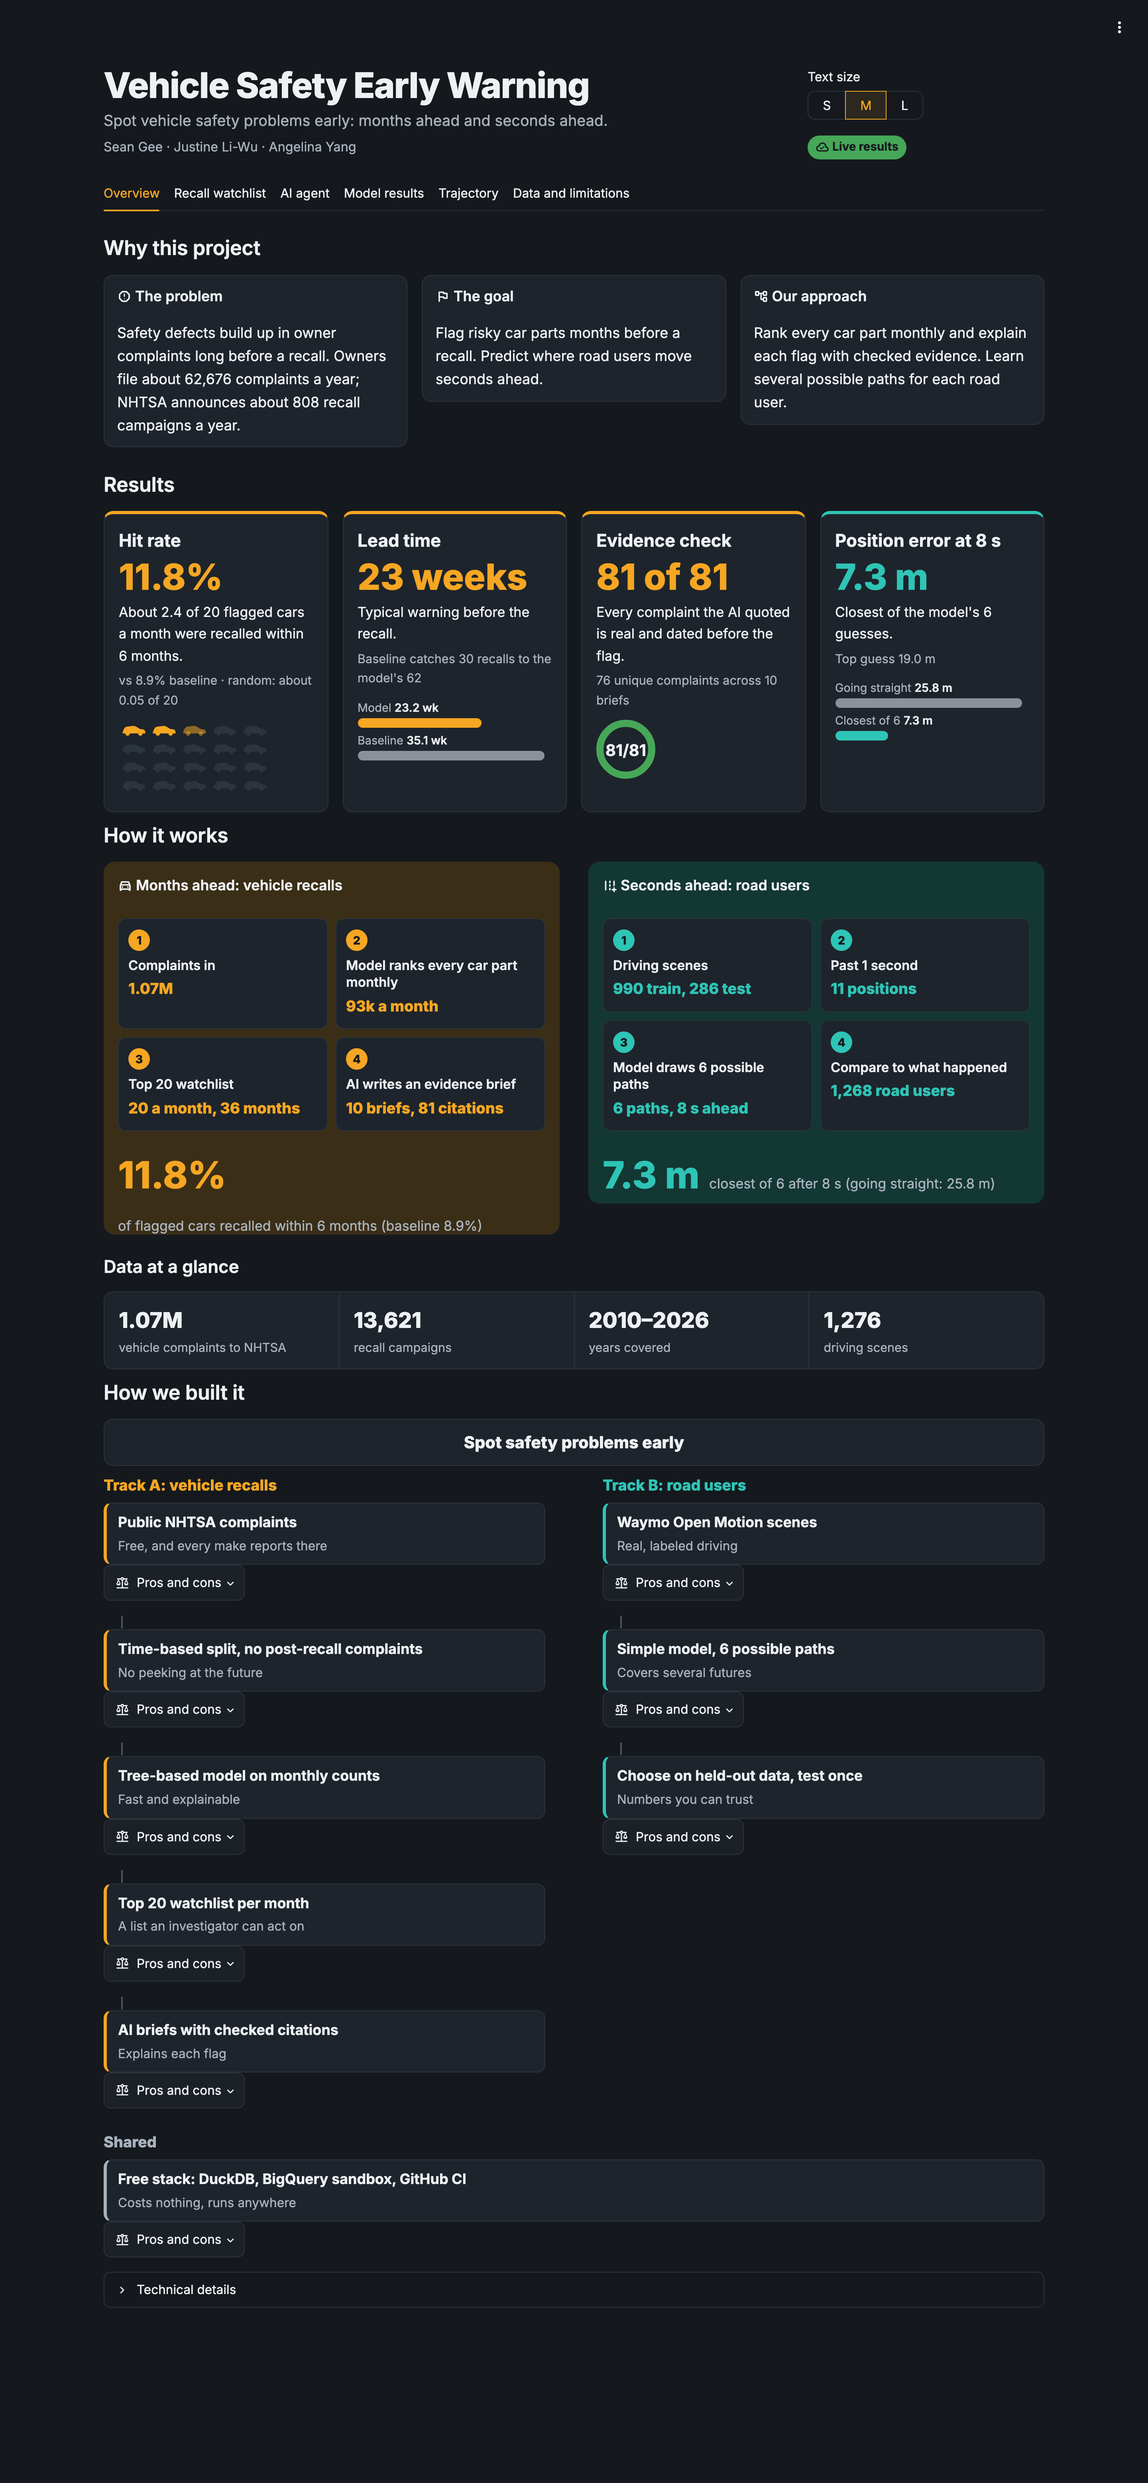
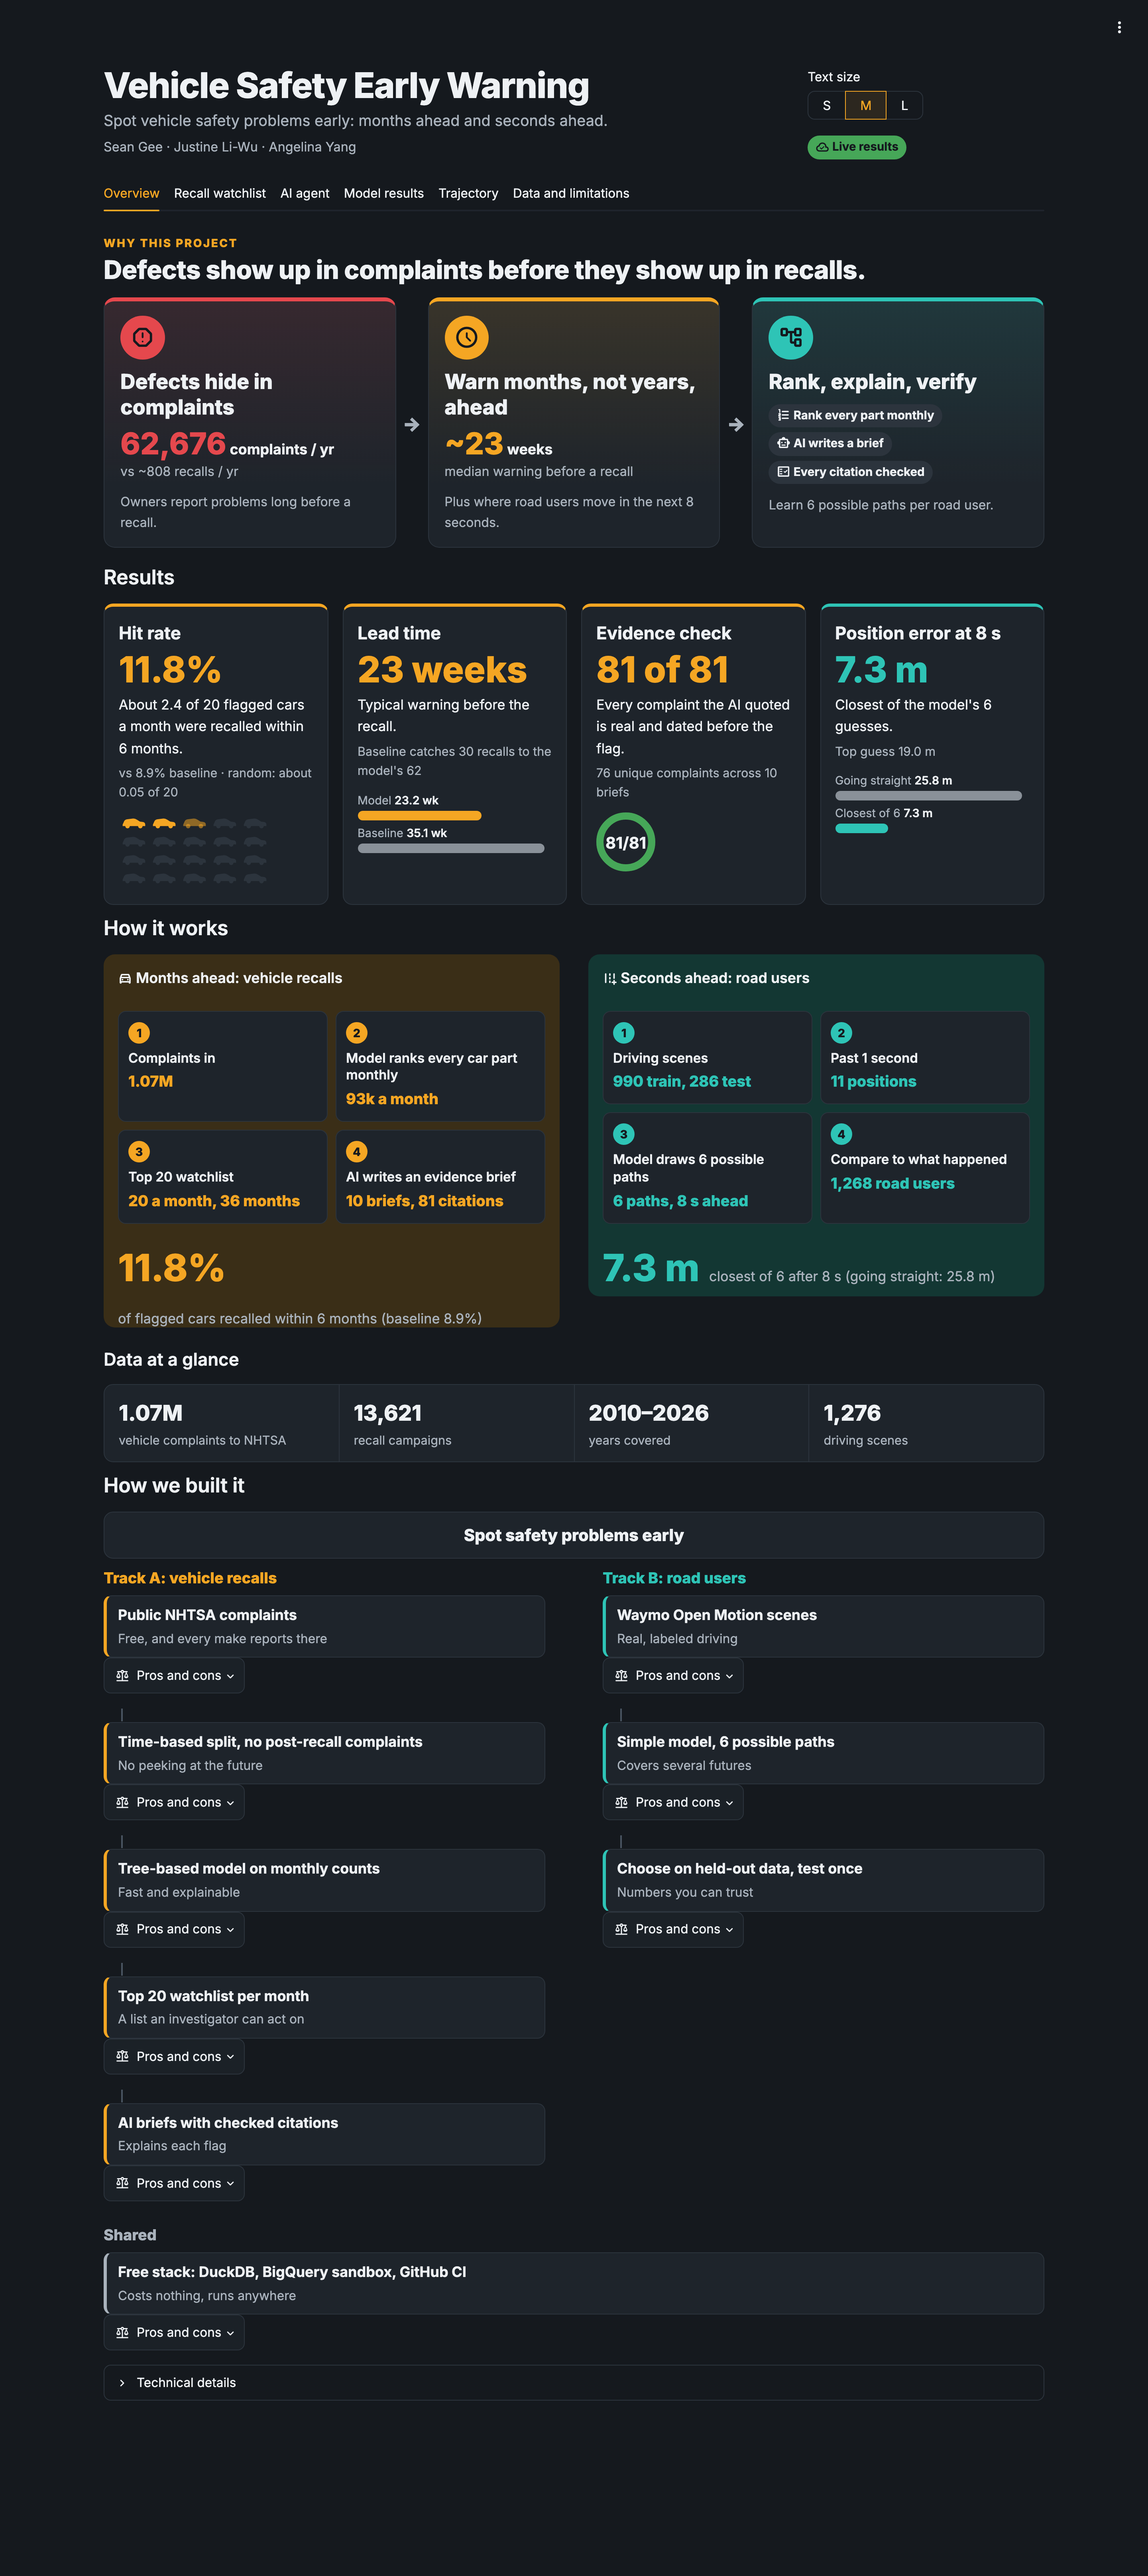
Demo: 'Why this project' as a Problem -> Goal -> Approach story (accent cards, live stats, arrows)

Changed region(s): [[0.0938, 0.0311, 0.9062, 0.9342], [0.6875, 0.0311, 0.7812, 0.0623]]

diff --git a/app/streamlit_app.py b/app/streamlit_app.py
@@ -128,28 +128,48 @@ def open_agent(brief_id: str) -> None:
 # ---------------------------------------------------------------------------------------------
 # Overview
 
+def h_row(data: D.Data):
+    h = data.get("v_headline_metrics")
+    return None if h is None or h.empty else h.iloc[0]
+
+
+def why_story(h, cf: dict, rf: dict) -> None:
+    """Problem -> Goal -> Approach, as three connected cards."""
+    weeks = None if h is None else h["model_median_weeks_warning"]
+    problem_stat = (f'<div class="stat">{num(cf["per_year"])}<span class="u"> complaints / yr</span></div>'
+                    f'<div class="sub">vs ~{num(rf["per_year"])} recalls / yr</div>') if cf and rf else ""
+    goal_stat = (f'<div class="stat">~{num(weeks)}<span class="u"> weeks</span></div>'
+                 '<div class="sub">median warning before a recall</div>') if weeks is not None else ""
+    approach_chips = "".join(ui.chip(t, theme.INK, theme.BORDER, ic) for ic, t in [
+        ("format_list_numbered", "Rank every part monthly"), ("smart_toy", "AI writes a brief"),
+        ("fact_check", "Every citation checked")])
+    cards = [
+        (theme.ALERT, "report", "Defects hide in complaints", problem_stat,
+         "Owners report problems long before a recall."),
+        (theme.TRACK_A, "schedule", "Warn months, not years, ahead", goal_stat,
+         "Plus where road users move in the next 8 seconds."),
+        (theme.TRACK_B, "account_tree", "Rank, explain, verify", f'<div class="chips">{approach_chips}</div>',
+         "Learn 6 possible paths per road user."),
+    ]
+    parts = []
+    for i, (accent, icon_name, headline, visual, line) in enumerate(cards):
+        if i:
+            parts.append('<div class="vse-chev" aria-hidden="true">→</div>')
+        parts.append(
+            f'<div class="vse-why" style="--accent:{accent};--glow:{theme.rgba(accent, 0.12)}">'
+            f'<div class="ic">{ui.icon(icon_name)}</div><div class="h">{escape(headline)}</div>'
+            f'{visual}<div class="ln">{escape(line)}</div></div>')
+    st.markdown('<div class="vse-eyebrow">WHY THIS PROJECT</div>'
+                '<div class="vse-bigtitle">Defects show up in complaints before they show up in recalls.</div>'
+                f'<div class="vse-story">{"".join(parts)}</div>', unsafe_allow_html=True)
+
+
 def tab_overview(data: D.Data, facts: dict) -> None:
     h = data.get("v_headline_metrics")
     rm, wr, audit = data.get("recall_metrics"), data.get("waymo_results"), data.get("recall_audit")
     cf, rf, w = facts.get("complaints", {}), facts.get("recalls", {}), facts.get("waymo", {})
 
-    st.markdown("### Why this project")
-    cards = [
-        ("why_problem", "report", "The problem",
-         f"Safety defects build up in owner complaints long before a recall. Owners file about "
-         f"{num(cf.get('per_year'))} complaints a year; NHTSA announces about {num(rf.get('per_year'))} recall "
-         "campaigns a year." if cf and rf else "Safety defects build up in owner complaints long before a recall."),
-        ("why_goal", "flag", "The goal",
-         "Flag risky car parts months before a recall. Predict where road users move seconds ahead."),
-        ("why_approach", "account_tree", "Our approach",
-         ("Rank every car part monthly and explain each flag with checked evidence. Learn several possible "
-         "paths for each road user.")),
-    ]
-    cols = st.columns(3)
-    for col, (key, ic, title, body) in zip(cols, cards, strict=True):
-        with col, st.container(key=key):
-            st.markdown(f"**:material/{ic}: {title}**")
-            st.markdown(body)
+    why_story(h_row(data), cf, rf)
 
     st.markdown("### Results")
     if h is None or h.empty:

diff --git a/app/theme.py b/app/theme.py
@@ -49,6 +49,11 @@ BASE_PX = 18
 BASELINE_TOOLTIP = "Rank cars by how many complaints they got in the last 3 months."
 
 
+def rgba(hex_color: str, alpha: float) -> str:
+    r, g, b = (int(hex_color.lstrip("#")[i:i + 2], 16) for i in (0, 2, 4))
+    return f"rgba({r},{g},{b},{alpha})"
+
+
 def part_name(component: str) -> str:
     c = str(component).upper()
     return next((name for prefix, name in PART_GROUPS if c.startswith(prefix)), "Other")
@@ -188,6 +193,27 @@ def css(scale: float = 1.0) -> str:
   .vse-counter .l {{ font-size: 0.85rem; color: {MUTED}; }}
   .vse-next {{ background: {TRACK_A_TINT}; border: 1px solid {TRACK_A}; border-radius: 12px; padding: 14px 18px; }}
   .vse-th {{ color: {MUTED}; font-size: 0.82rem; font-weight: 650; text-transform: uppercase; letter-spacing: 0.04em; }}
+  .vse-eyebrow {{ color: {TRACK_A}; font-size: 0.78rem; font-weight: 750; letter-spacing: 0.12em; margin-top: 0.6rem; }}
+  .vse-bigtitle {{ font-size: 1.78rem; font-weight: 760; color: {INK}; line-height: 1.2; margin: 4px 0 14px;
+                  letter-spacing: -0.01em; }}
+  .vse-story {{ display: flex; align-items: stretch; gap: 10px; margin-bottom: 8px; }}
+  .vse-why {{ flex: 1 1 0; min-width: 0; border: 1px solid {BORDER}; border-top: 5px solid var(--accent);
+             border-radius: 14px; padding: 18px 20px;
+             background: linear-gradient(180deg, var(--glow) 0%, rgba(0,0,0,0) 75%), {CARD}; }}
+  .vse-why .ic {{ width: 3.1rem; height: 3.1rem; border-radius: 50%; background: var(--accent);
+                 display: flex; align-items: center; justify-content: center; color: {BG}; margin-bottom: 12px; }}
+  .vse-why .ic .ms {{ font-size: 1.75rem; vertical-align: 0; }}
+  .vse-why .h {{ font-size: 1.44rem; font-weight: 760; color: {INK}; line-height: 1.2; margin-bottom: 10px; }}
+  .vse-why .stat {{ font-size: 2.1rem; font-weight: 800; color: var(--accent); line-height: 1.1; }}
+  .vse-why .stat .u {{ font-size: 1rem; font-weight: 650; color: {INK}; }}
+  .vse-why .sub {{ font-size: 0.9rem; color: {MUTED}; margin-top: 2px; }}
+  .vse-why .chips {{ display: flex; flex-direction: column; align-items: flex-start; gap: 2px; }}
+  .vse-why .ln {{ font-size: 0.89rem; color: {MUTED}; margin-top: 12px; }}
+  .vse-chev {{ align-self: center; color: {MUTED}; font-size: 1.8rem; font-weight: 700; flex: none; }}
+  @media (max-width: 900px) {{
+    .vse-story {{ flex-direction: column; }}
+    .vse-chev {{ transform: rotate(90deg); margin: -4px auto; }}
+  }}
   .st-key-panel_a {{ background: {TRACK_A_TINT}; border-radius: 14px; padding: 16px 18px; }}
   .st-key-panel_b {{ background: {TRACK_B_TINT}; border-radius: 14px; padding: 16px 18px; }}
   [class*="st-key-why_"], [class*="st-key-car_"], [class*="st-key-tile_"], [class*="st-key-wrow_"] {{

diff --git a/tests/test_demo.py b/tests/test_demo.py
@@ -173,7 +173,8 @@ def test_every_tab_renders_with_bigquery_data(monkeypatch):
     assert "Live results" in page and "Local data" not in page
     assert "Sean Gee · Justine Li-Wu · Angelina Yang" in page
     assert "11.8%" in page and "6 of 6" in page and "3 unique complaints" in page  # KPI cards
-    assert "Why this project" in page and "Spot safety problems early" in page    # overview sections
+    assert "WHY THIS PROJECT" in page and "Defects hide in complaints" in page    # overview story
+    assert "Spot safety problems early" in page                                  # decision tree
     assert "New car" in page and "Fire reports" in page                          # watchlist tags
     assert "vehicle is under a year old" not in page.split("Flag reasons check")[0]  # never raw on the list
     assert "Built by Sean Gee, Justine Li-Wu, Angelina Yang." in page
